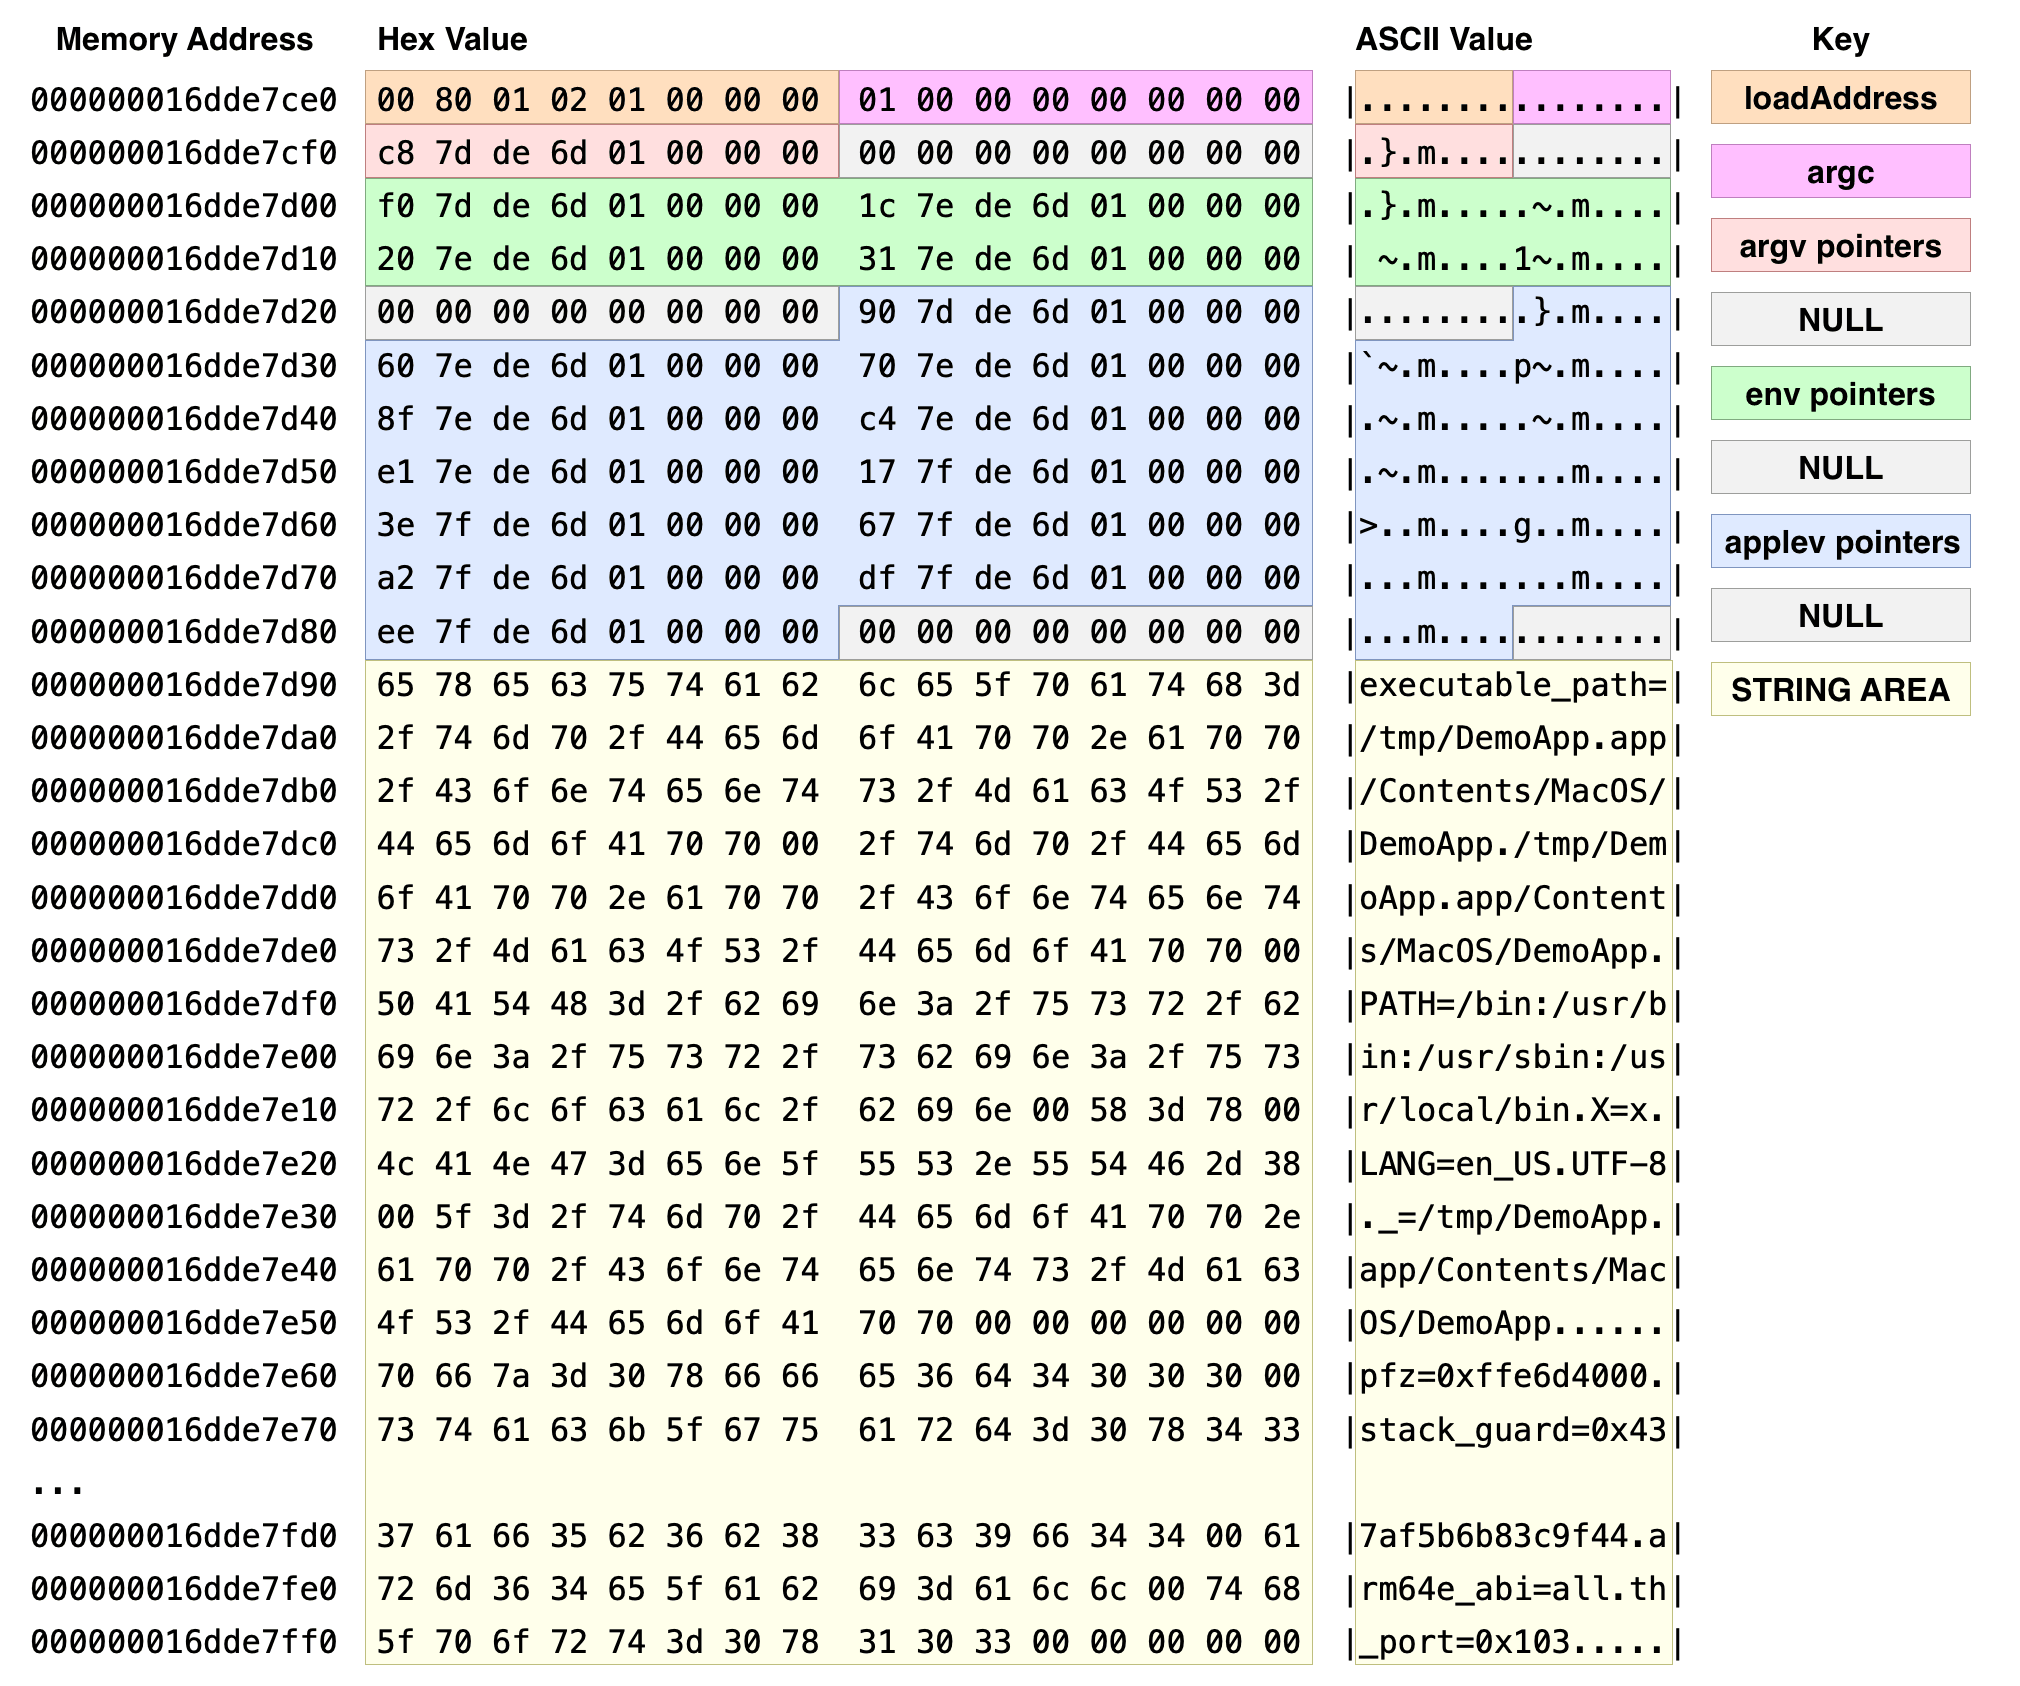
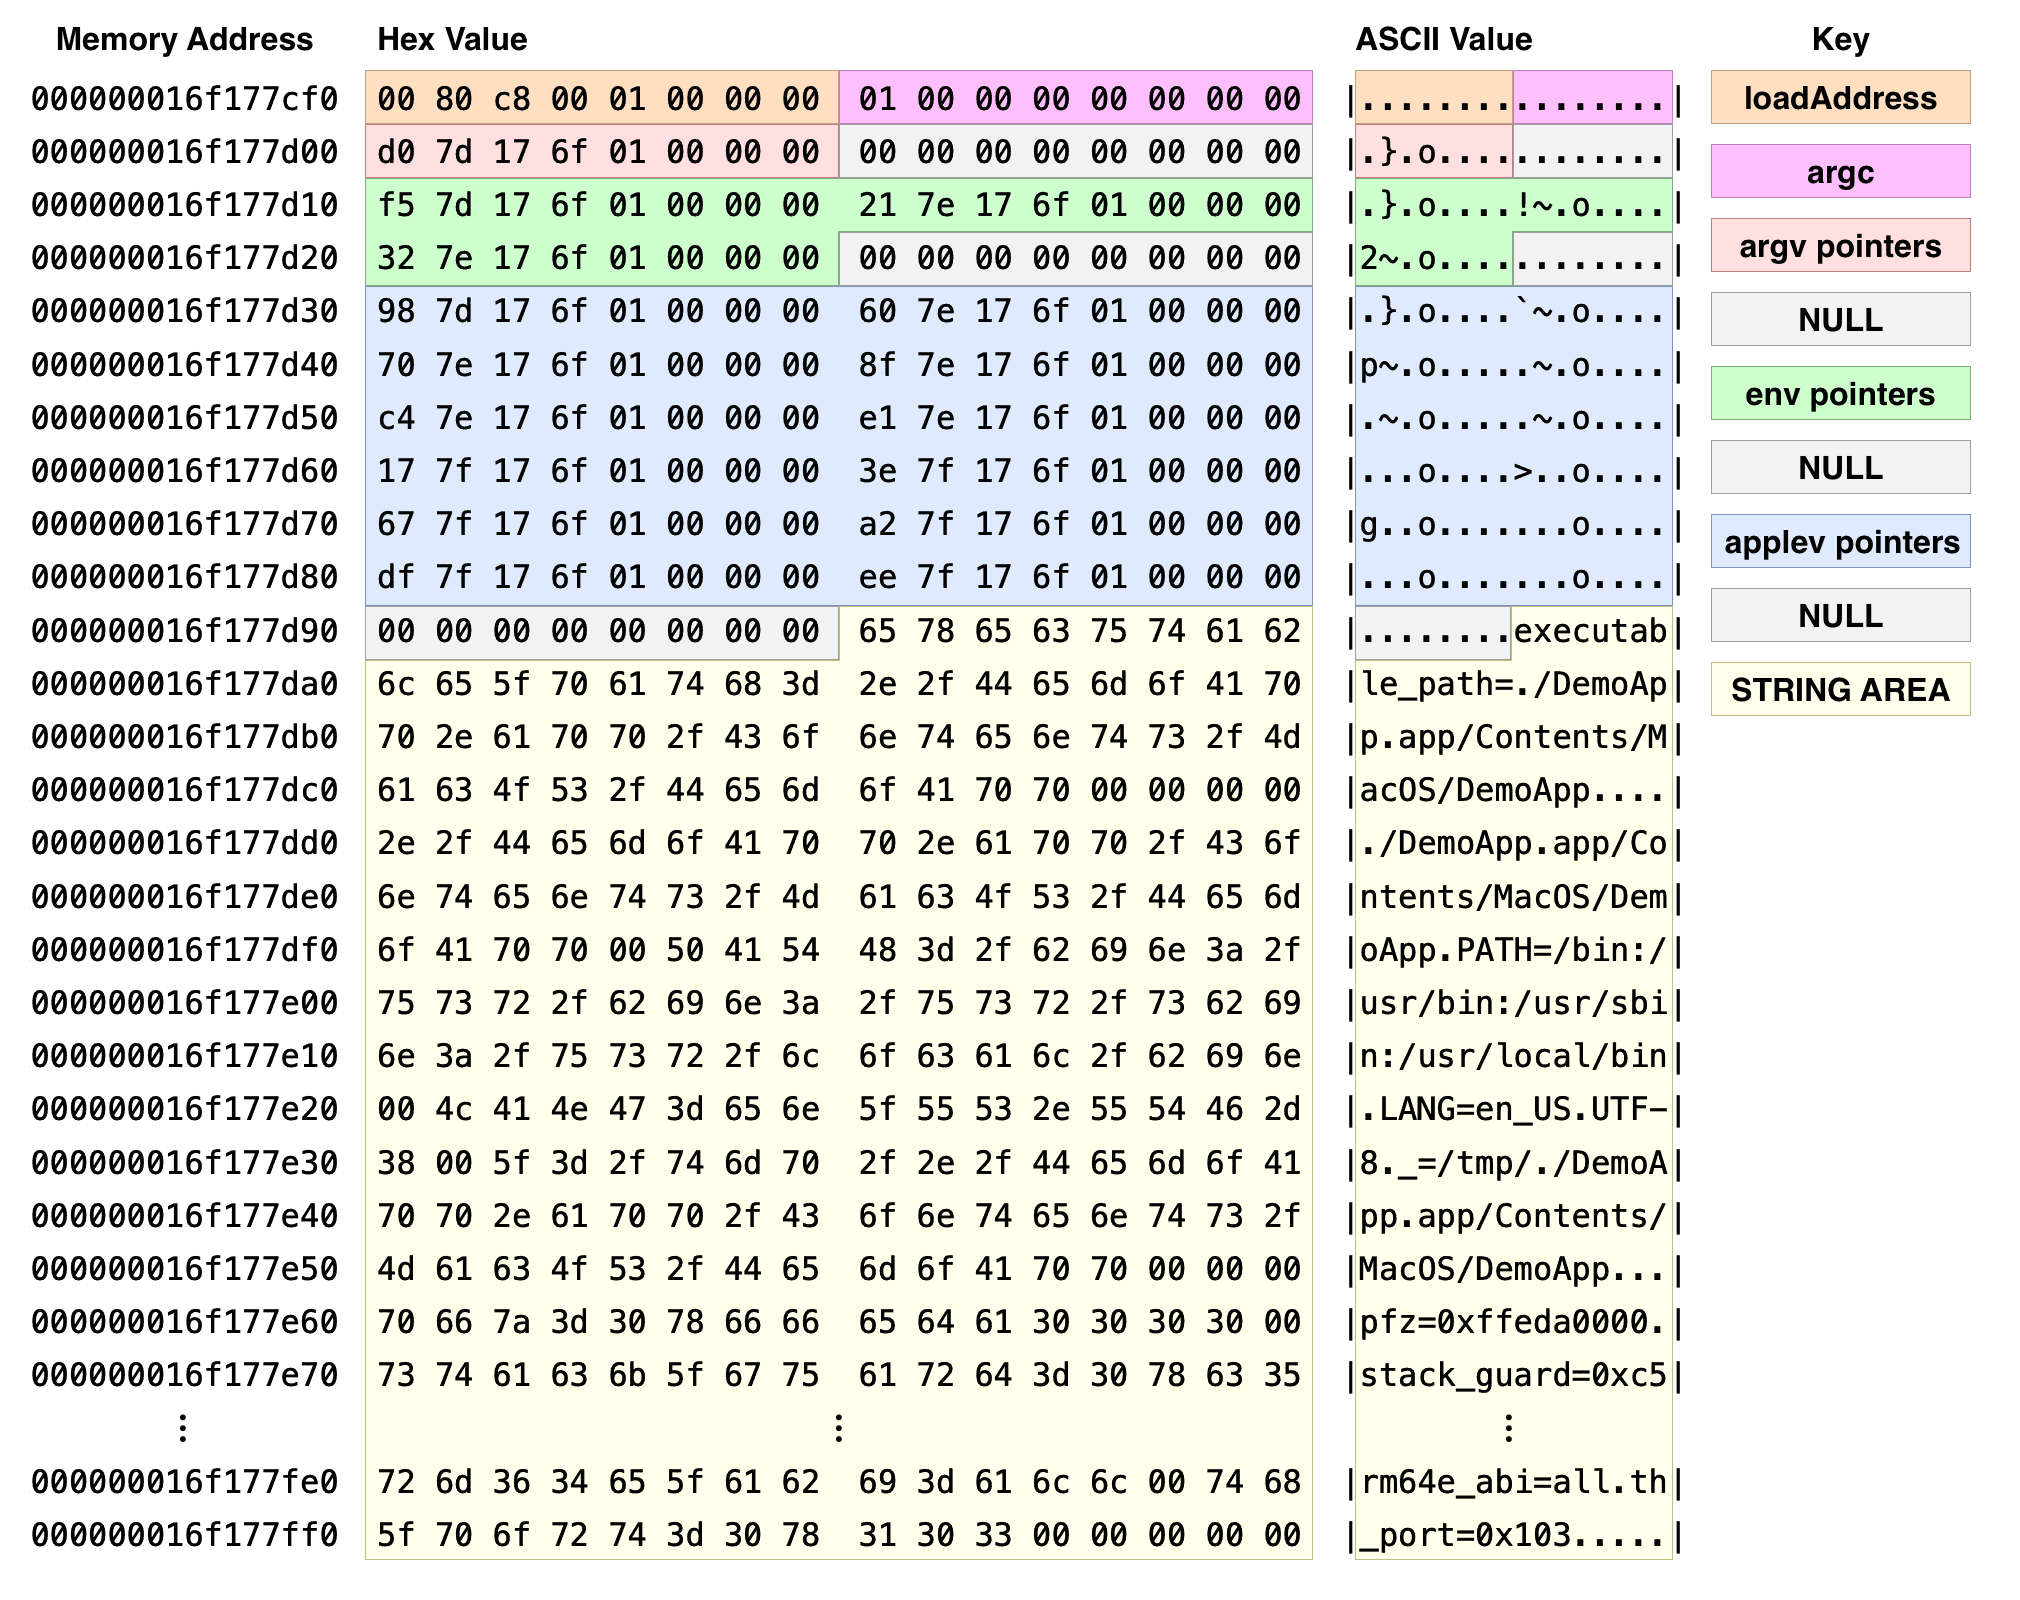
Updating README for project changes

Changed region(s): [[0.0, 0.0, 0.998, 0.875], [0.0, 0.9062, 0.8421, 1.0]]

diff --git a/Source/Injection.c b/Source/Injection.c
@@ -615,7 +615,7 @@ static bool sModifyStack(
                     string->value = strdup(variable->value);
                 }
 
-                // Invalidate address so this string is added to "more" area
+                // Invalidate address so this string is added to "addendum"
                 string->address = 0;
                 
                 free(oldValue);
@@ -675,7 +675,7 @@ static bool sWriteStack(task_port_t task, Stack *stack, uintptr_t *outSp)
     // Align to pointer boundary
     sp = (sp / sizeof(uintptr_t)) * sizeof(uintptr_t);
     
-    vm_address_t moreAreaStart = sp;
+    vm_address_t addendumStart = sp;
     
     // Move down for pointerCount pointers, plus 3 NULL separators, argc, and loadAddress
     sp -= (pointerCount + 3 + 1 + 1) * sizeof(uintptr_t);
@@ -698,9 +698,9 @@ static bool sWriteStack(task_port_t task, Stack *stack, uintptr_t *outSp)
         );
     }
     
-    // Write "more" area (our additions to the string area)
+    // Write "addendum" (our additions to the string area)
     {
-        __block size_t bufferOffset = moreAreaStart - sp;
+        __block size_t bufferOffset = addendumStart - sp;
         
         sStackIterateLists(stack, ^(StackList *list) {
             sListIterateStrings(list, ^(StackString *string) {

diff --git a/README.md b/README.md
@@ -120,20 +120,23 @@ We need to do the following:
 - Modify the string area to add our `DYLD_INSERT_LIBRARIES` and `DYLD_SHARED_REGION` environment variables.
 - Add pointers to `envp[]` for the added variables.
 
-Unfortunately, we are very limited in space and cannot easily add new values. We need to plan on rewriting the string area and rebuilding the pointer lists.
+macOS imposes a few restrictions:
 
-> [!NOTE]  
-> While the kernel adds alignment and padding bytes inside of the string area, we do not need to preserve these. We simply need to ensure that all pointers are aligned to 8-byte boundaries.
+- The stack pointer register (sp) must be 16-byte aligned upon entering dyld's `start()` function.
+- All pointers in the pointer area must be aligned to 8-byte boundaries.
+- The contents of the original string area (`executable_path=` to the end of the VM region (`p->user_stack`) should not change. Doing so will corrupt the results of `KERN_PROCARGS2` calls. [See Issue 2](https://github.com/iccir/ESInjectorDemo/issues/2). 
 
-In the demo, `sReadStack()` parses the contents of the stack and builds a `Stack` structure. We add our new environmental variables to this structure in `sModifyStack()`. We then write the structure back to the stack in `sWriteStack()`.
+Our plan is the following:
+
+- We parse the contents of the stack and build a `Stack` structure in `sReadStack()`.
+- We add our new environmental variables to this structure in `sModifyStack()`.
+- We write the structure back to the stack in `sWriteStack()`. We create a new "addendum" section immediately below the string area for any modified or inserted environmental variables.
 
 Here's our updated memory:
 
 <img alt="Hexdump with pointer area annotations" src="Docs/hexdump3.png" width=720>
 
-<img alt="Hexdump with string area annotations" src="Docs/hexdump4.png" width=720>
-
-Note that due to the added variables, our new stack pointer is `0x16dde7c90` instead of `0x16dde7ce0`, a difference of 80 bytes.
+Note that due to the added variables, our new stack pointer needs to be `0x16f177c90` instead of `0x16f177cf0`, a difference of 96 bytes.
 
 ### Updating the Stack Pointer
 
@@ -152,11 +155,11 @@ __dyld_start:
 
 As Saagar notes, `fp` and `lr` are initialized to `0` by the kernel. This gives us 2 instructions worth of wiggle-room. Additionally, in `sModifyStack()`, we already align `sp` to a 16-byte boundary, giving us an extra instruction.
 
-We need to move `sp` downwards by 80 bytes. To do this, we can simply replace the first two instructions:
+We need to move `sp` downwards by 96 bytes. To do this, we can simply replace the first two instructions:
 
 ```text
 __dyld_start:
-    sub sp, sp, #80
+    sub sp, sp, #96
     mov x0, sp
     b   start
 ```
@@ -229,6 +232,56 @@ actual_amfi_check_dyld_policy_self =
 ```
 
 `sWriteAMFICheckPolicyPatch()` then writes our patch to this address and enables interposing.
+
+## Advanced Usage
+
+The demo uses `InjectionInjectLibrary()` in `Injector.h`/`Injector.c` to inject a single dyld into the specified process.
+
+You can use `InjectionModifyEnvironment()` for more-advanced use cases.
+
+For example, suppose we have the following environmental variables:
+
+```
+DYLD_FRAMEWORK_PATH=/tmp/example1
+DYLD_INSERT_LIBRARIES=/tmp/foo.dyld
+```
+
+We'd like to modify these to be:
+
+```
+DYLD_FRAMEWORK_PATH=/tmp/example2:/tmp/example1
+DYLD_LIBRARY_PATH=/tmp/example3
+DYLD_INSERT_LIBRARIES=/tmp/foo.dylib:/tmp/bar.dylib
+DYLD_SHARED_CACHE=1
+```
+
+We can do so with the following code:
+
+```c
+InjectionVariable prependPathVariables[] = {
+    { "DYLD_FRAMEWORK_PATH", "/tmp/example2" },
+    { NULL, NULL }
+};
+
+InjectionVariable appendPathVariables[] = {
+    { "DYLD_LIBRARY_PATH", "/tmp/example3" },
+    { "DYLD_INSERT_LIBRARIES", "/tmp/bar.dylib" },
+    { NULL, NULL }
+};
+
+InjectionVariable overwriteVariables[] = {
+    { "DYLD_SHARED_REGION", "1" },
+    { NULL, NULL }
+};
+
+bool ok = InjectionModifyEnvironment(
+    pid,
+    prependPathVariables,
+    appendPathVariables,
+    overwriteVariables
+);
+```
+
 
 ## License
 
